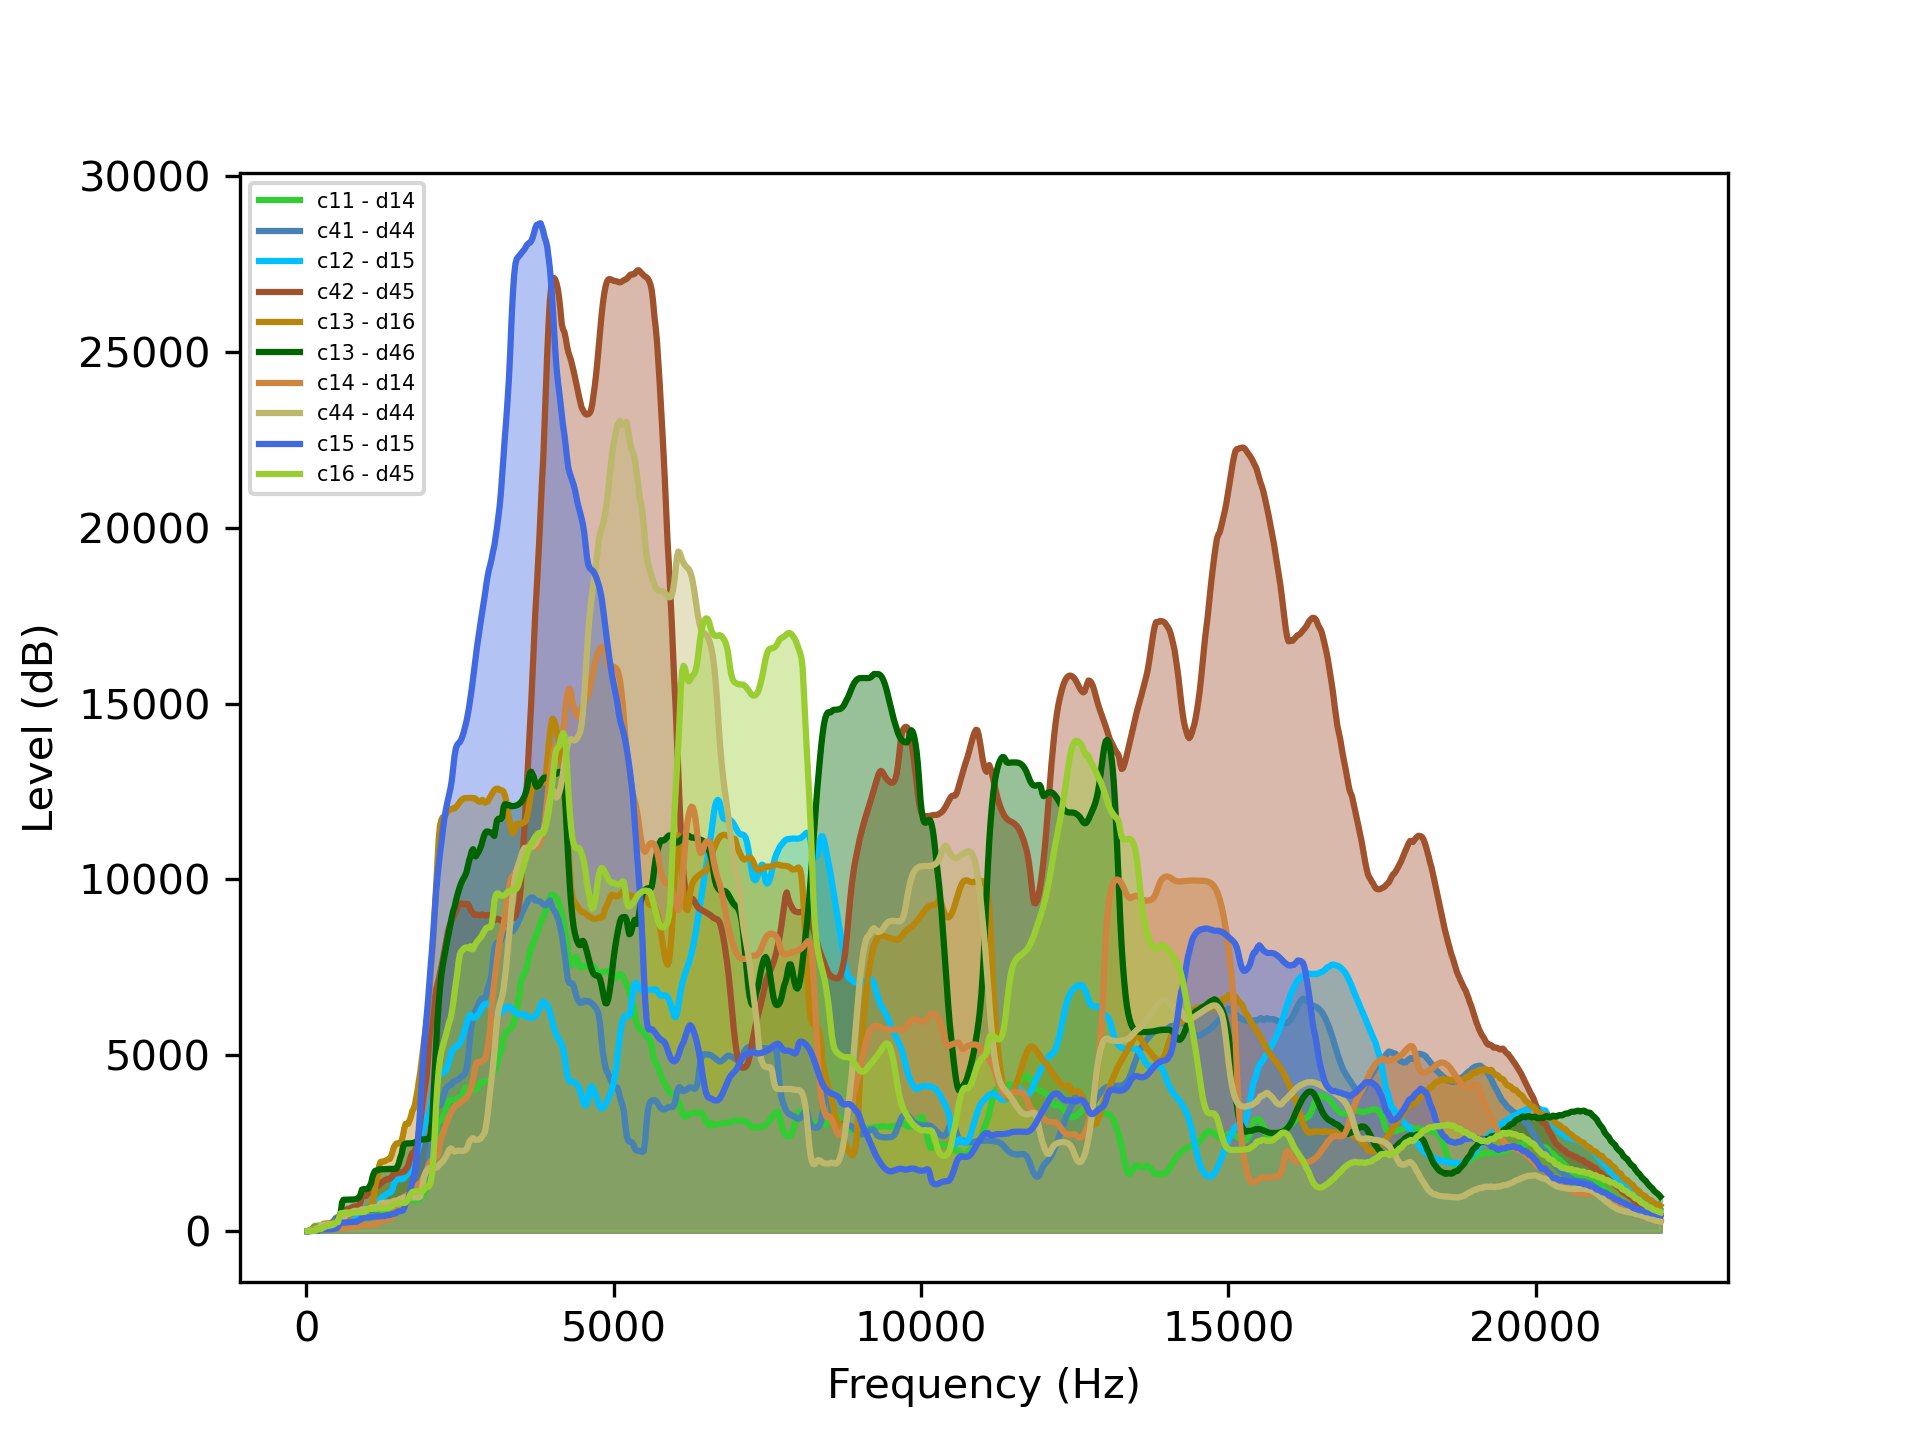
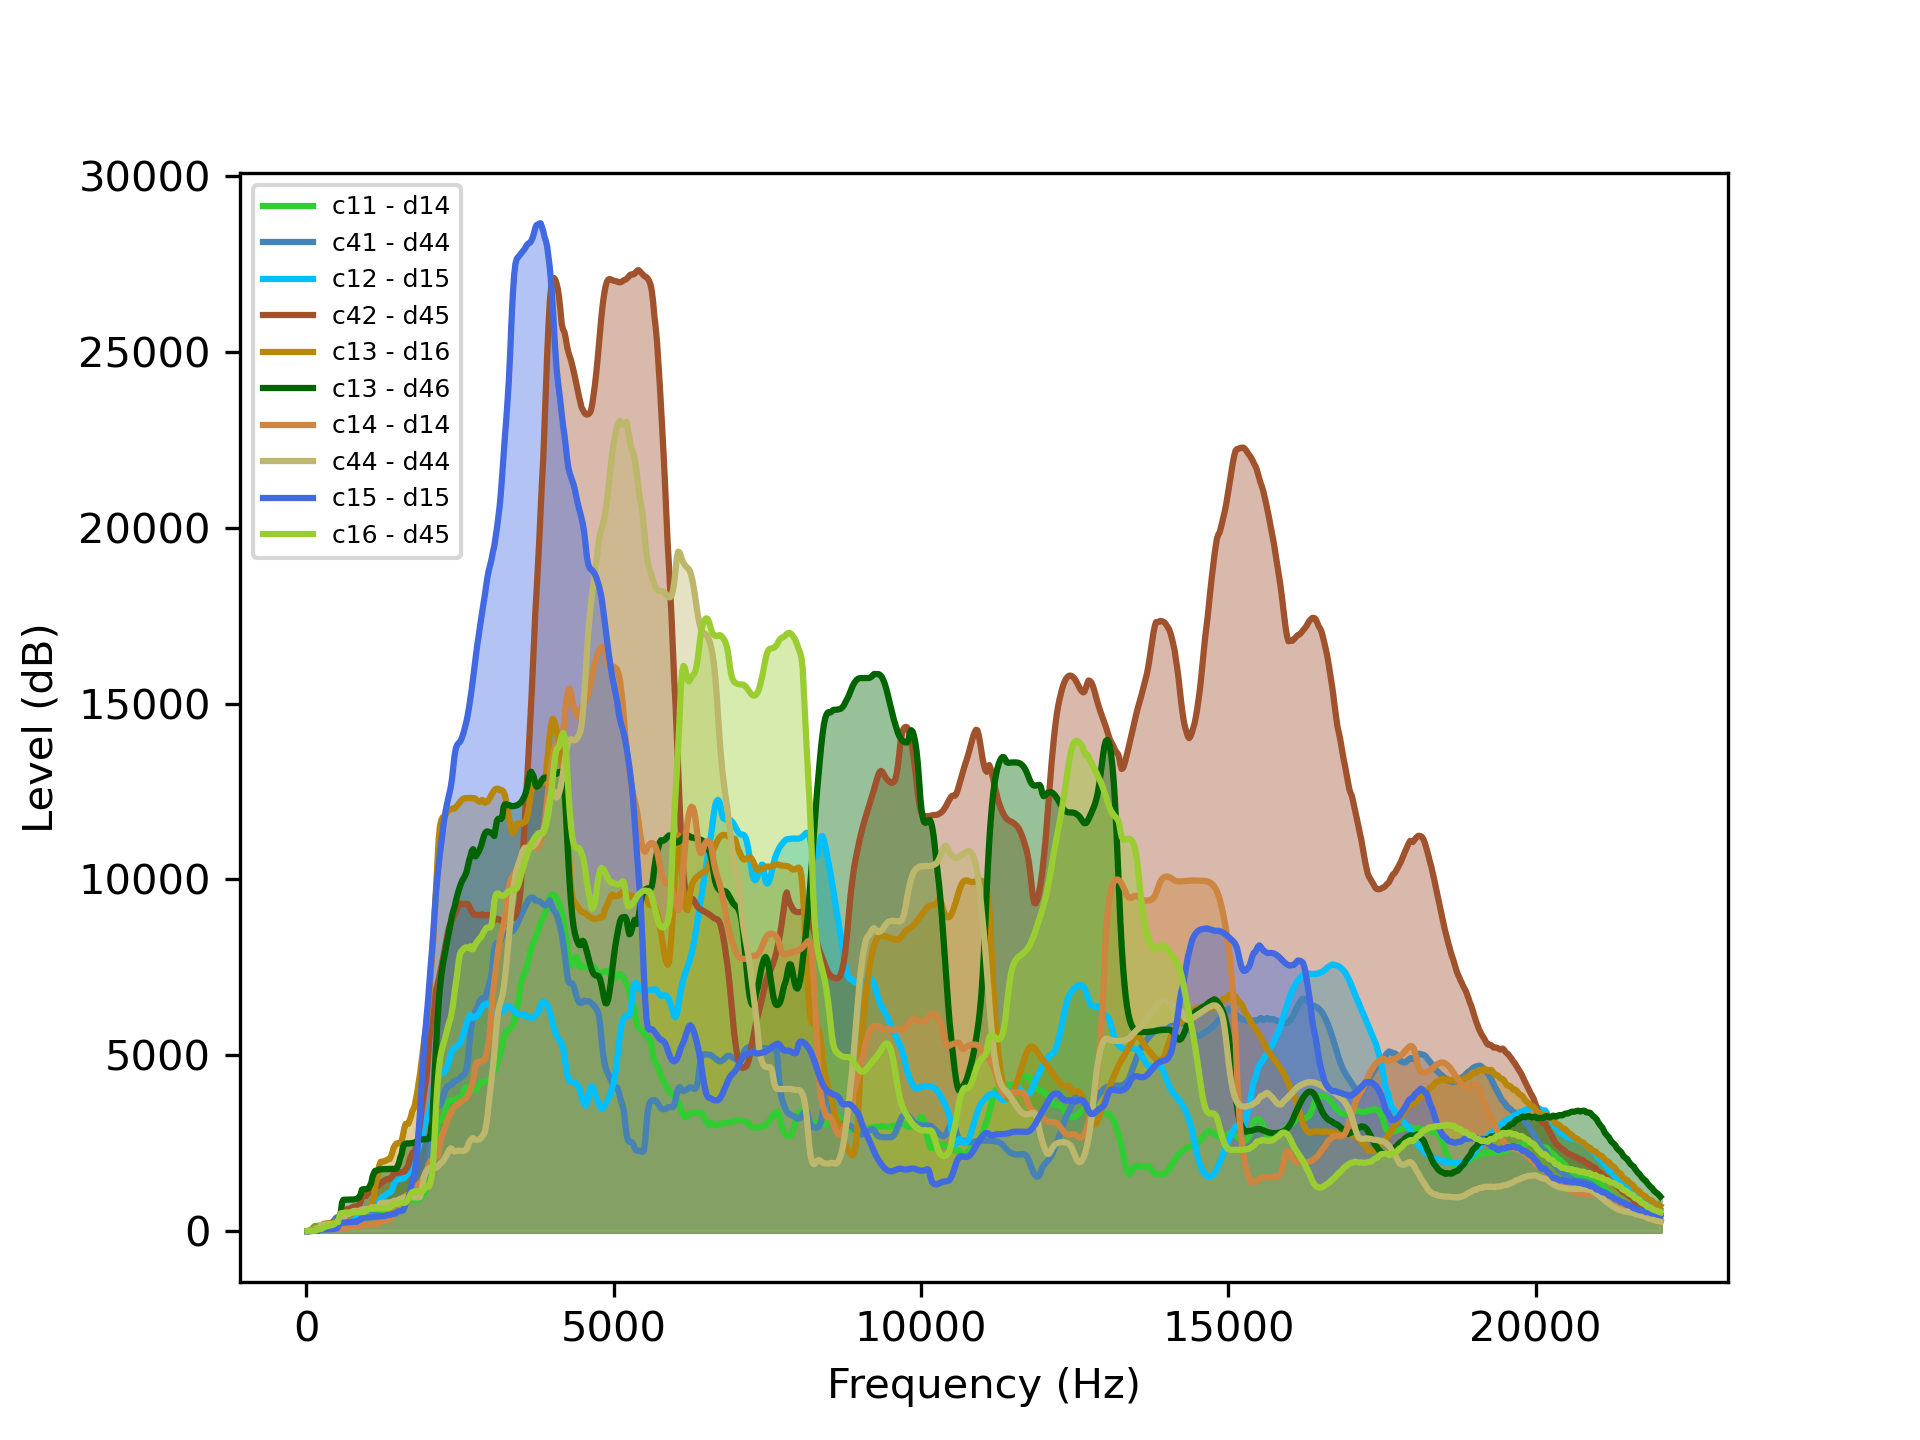
new plots

Changed region(s): [[0.125, 0.125, 0.25, 0.4062]]

diff --git a/error_plots/c_vs_d.py b/error_plots/c_vs_d.py
@@ -124,7 +124,7 @@ axes.set_xlabel(x)
 axes.set_ylabel(y)
 #axes.set_xlim(20,22000)
 #axes.set_ylim(-15,15)
-plt.legend(loc=2, prop={'size': 5})
+plt.legend(loc=2, prop={'size': 6})
 #axes.set_xscale('log')
 # axes.get_legend().remove()
 plt.savefig('c_vs_d.png',dpi=300)

diff --git a/error_plots/c_vs_e.py b/error_plots/c_vs_e.py
@@ -123,7 +123,7 @@ axes.set_xlabel(x)
 axes.set_ylabel(y)
 axes.set_xlim(20,22000)
 #axes.set_ylim(-15,15)
-plt.legend(loc=2, prop={'size': 5})
+plt.legend(loc=2, prop={'size': 6})
 #axes.set_xscale('log')
 # axes.get_legend().remove()
 plt.savefig('c_vs_e.png',dpi=300)

diff --git a/error_plots/c_vs_m.py b/error_plots/c_vs_m.py
@@ -122,7 +122,7 @@ axes.set_xlabel(x)
 axes.set_ylabel(y)
 axes.set_xlim(20,22000)
 #axes.set_ylim(-15,15)
-plt.legend(loc=2, prop={'size': 5})
+plt.legend(loc=2, prop={'size': 6})
 #axes.set_xscale('log')
 # axes.get_legend().remove()
 plt.savefig('c_vs_m.png',dpi=300)

diff --git a/error_plots/c_vs_c.py b/error_plots/c_vs_c.py
@@ -114,7 +114,7 @@ axes.set_xlim(20,22000)
 #axes.set_ylim(-20,20)
 #axes.set_xscale('log')
 # axes.get_legend().remove()
-plt.legend(loc=2, prop={'size': 5})
+plt.legend(loc=2, prop={'size': 6})
 plt.savefig('c_vs_c.png',dpi=300)
 plt.show()
 exit()
